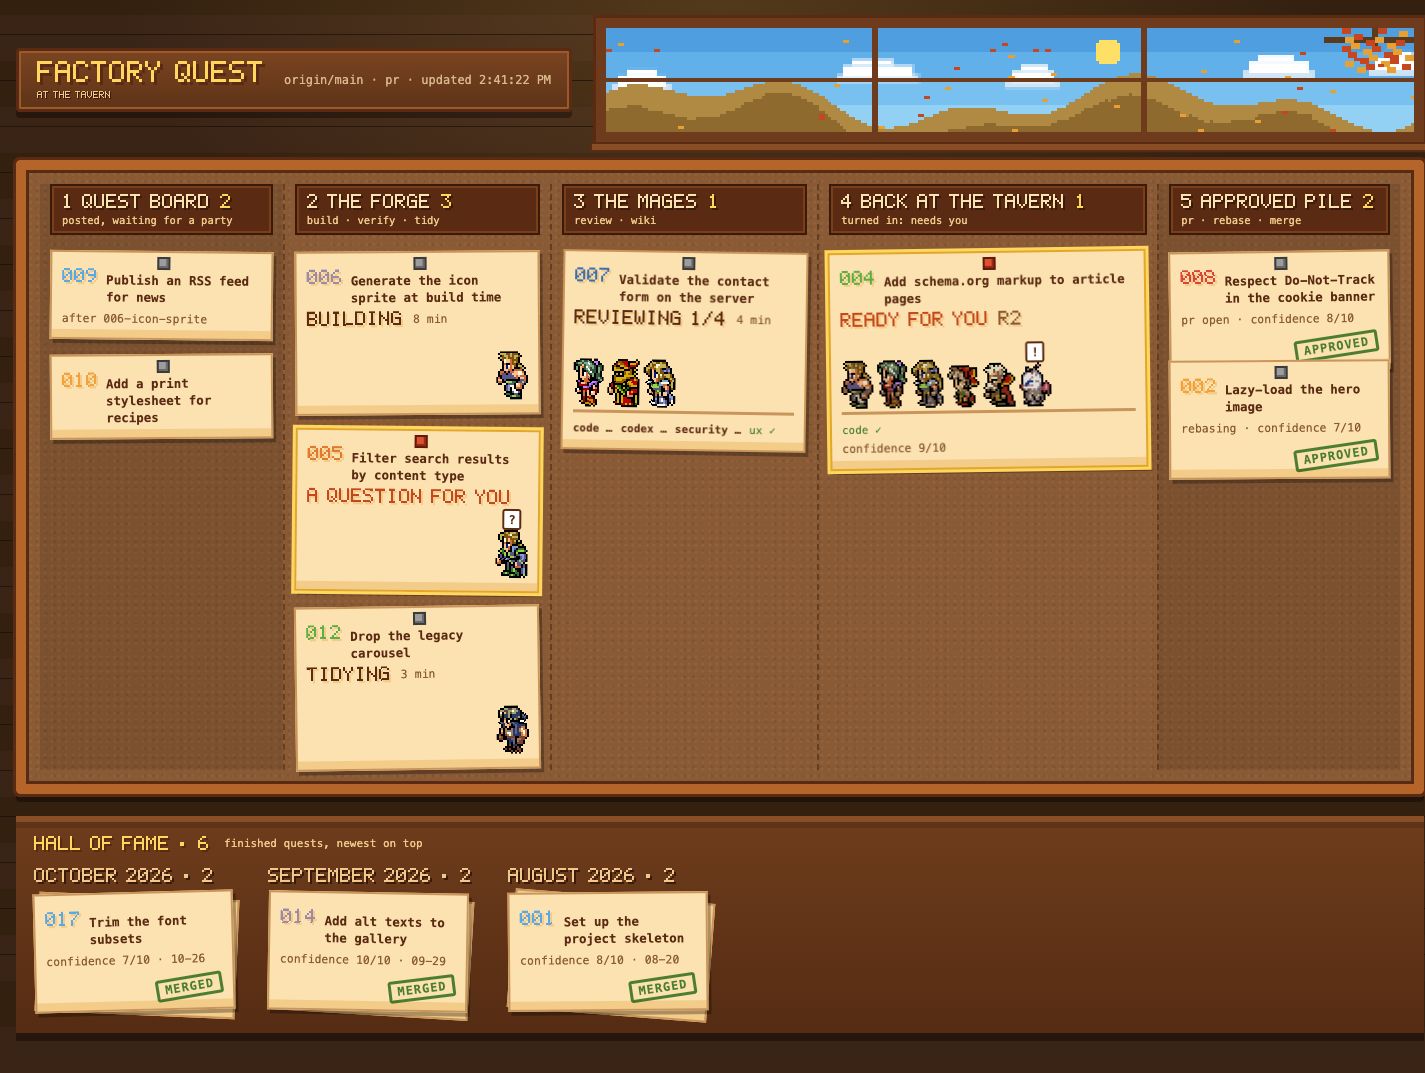
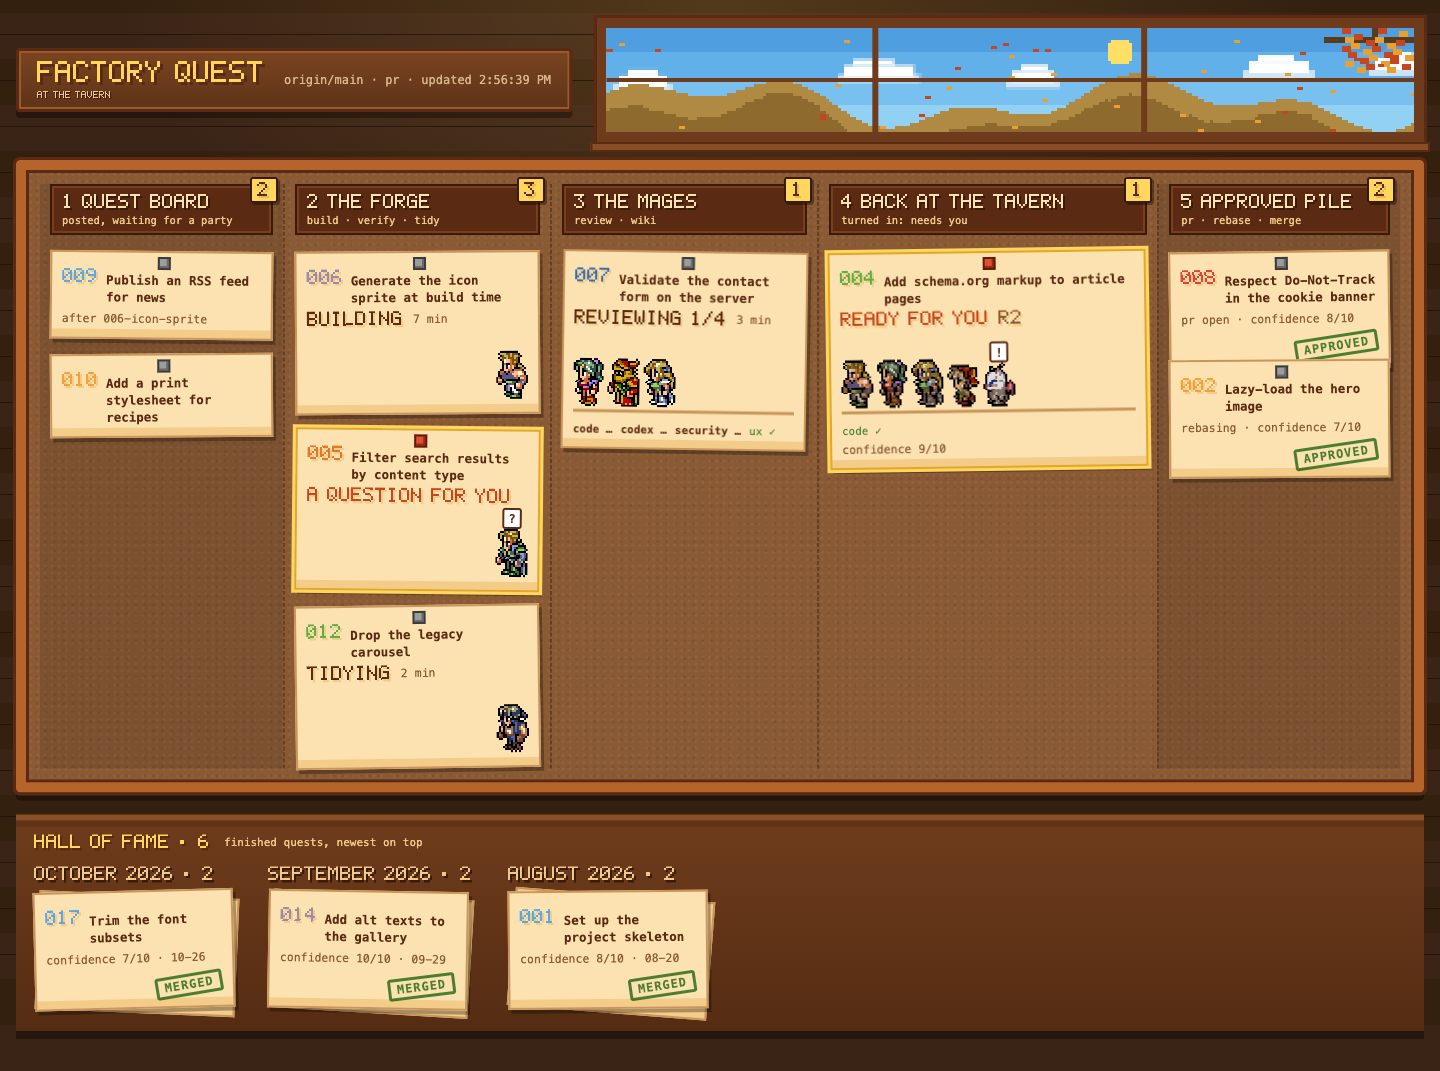
Give each column's count a badge of its own

diff --git a/plugins/factory/skills/factory/dashboard.html b/plugins/factory/skills/factory/dashboard.html
@@ -58,8 +58,11 @@
   .lane { display: grid; gap: 14px; align-content: start; min-width: 0; padding: 0 10px; }
   .lane + .lane { border-left: 2px dashed rgb(59 30 12 / .45); }
   .lane.side { background: rgb(0 0 0 / .1); }
-  .lane h2 { display: flex; flex-wrap: wrap; gap: 4px 8px; align-items: center; margin: 0 0 2px; padding: 8px 10px 7px;
-             background: var(--wood-dark); border: 2px solid #3a1a08; box-shadow: inset 0 0 0 2px #7a3e1a; }
+  .lane h2 { position: relative; display: flex; flex-wrap: wrap; gap: 4px 8px; align-items: center; margin: 0 0 2px;
+             padding: 8px 30px 7px 10px; background: var(--wood-dark); border: 2px solid #3a1a08; box-shadow: inset 0 0 0 2px #7a3e1a; }
+  .lane h2 img.ptxt { max-width: 100%; height: auto; }
+  .lane h2 .count { position: absolute; top: -9px; right: -7px; padding: 3px 5px; background: var(--focus);
+                    border: 2px solid #3a1a08; border-radius: 3px; box-shadow: 2px 2px 0 rgb(0 0 0 / .35); }
   .lane h2 .sub { flex-basis: 100%; font: 400 10.5px var(--font); color: #f0c98a; }
   .lane-empty { margin: 0; padding: 8px; font-size: 12px; color: #e9c896; opacity: .7; text-align: center; }
 
@@ -588,7 +591,8 @@ const Font = (() => {
       const body = here.length ? here.map(lane.side ? slip : note).join("")
         : `<p class="lane-empty">${lane.key === "queue" && !jobs.length ? "No jobs yet. Queue one with /factory add." : "Nobody here."}</p>`;
       return `<section class="lane${lane.side ? " side" : ""}" aria-label="${lane.title.toLowerCase()}">`
-        + `<h2>${T(`${i + 1} ${lane.title}`, "#fbe2b0", 2, "#3a1a08")}${T(here.length, "#ffd75e", 2, "#3a1a08")}<span class="sub">${lane.sub}</span></h2>`
+        + `<h2>${T(`${i + 1} ${lane.title}`, "#fbe2b0", 2, "#3a1a08")}<span class="count">${T(here.length, "#5b2a12", 2, "#f0b84a")}</span>`
+        + `<span class="sub">${lane.sub}</span></h2>`
         + (lane.key === "pile" ? `<div class="pile">${body}</div>` : body) + `</section>`;
     }).join("");
     const done = hall(jobs.filter((j) => FINISHED.includes(j.stage)));
